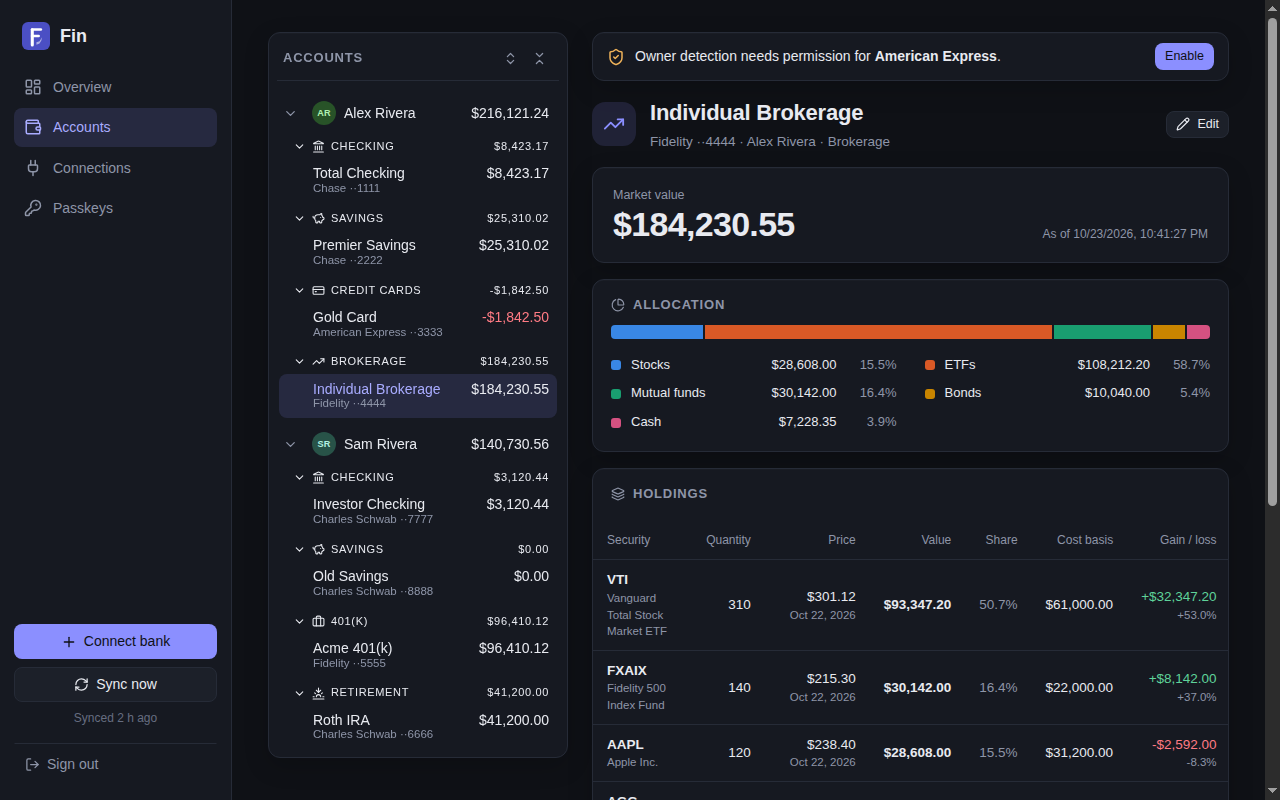
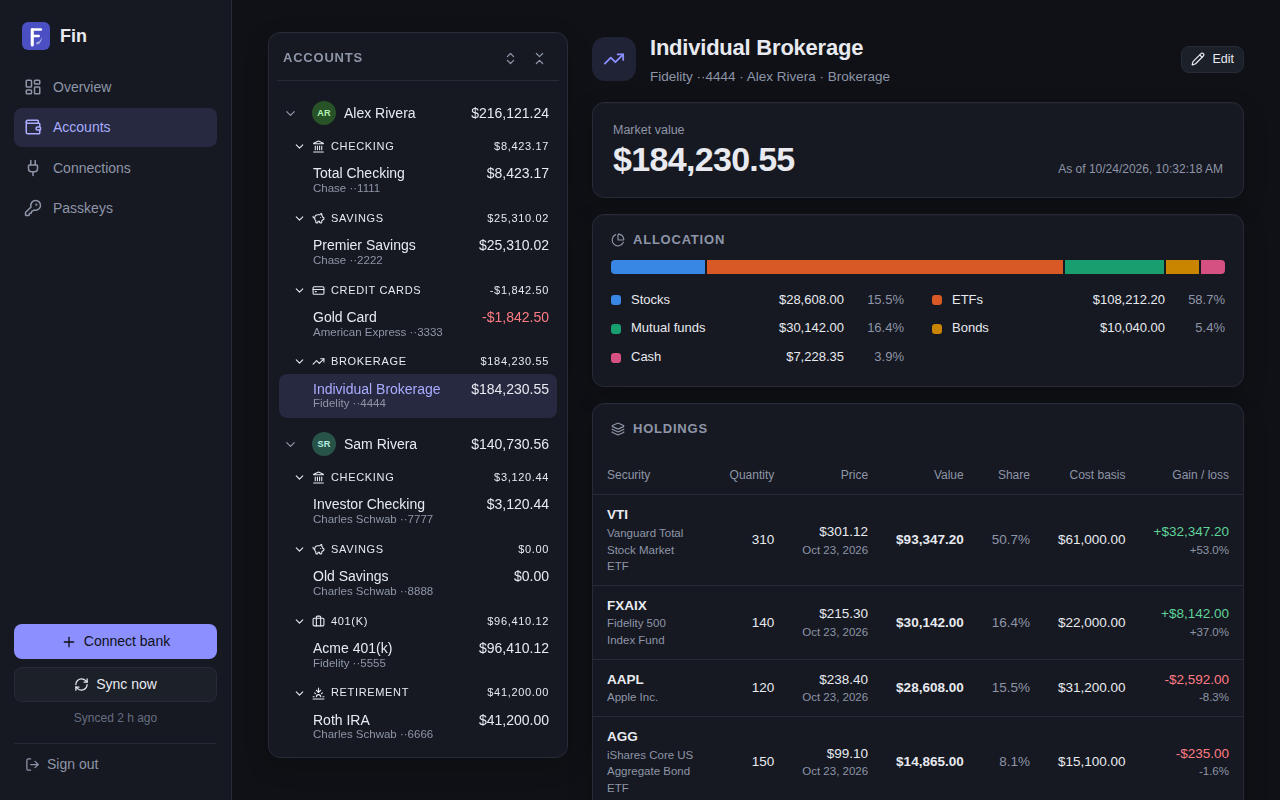
Align Overview cards across groups; bring README up to date
- Overview: each owner's groups share grid rows (subgrid), so headings and
  side-by-side cards line up even when names wrap; headings stay on one
  line (the redundant "balance only" suffix is gone, cards still say it)
- README: owners are set by hand, DB_KEY in the 1Password steps, layout
  list matches src/; screenshots retaken without the Identity UI
- db.ts comments: identity_status / owner_detected are unused leftovers

diff --git a/web/src/pages/Home.svelte b/web/src/pages/Home.svelte
@@ -7,7 +7,7 @@
   import PageHeader from "../components/PageHeader.svelte";
   import Switch from "../components/Switch.svelte";
   import { data } from "../lib/data.svelte";
-  import { balanceOnly, byGroup, dateTime, ownerList, plural, sum, usd, usd0, where } from "../lib/format";
+  import { byGroup, dateTime, ownerList, plural, sum, usd, usd0, where } from "../lib/format";
   import { groupIcon, KIND_TONE } from "../lib/icons";
   import { startLink } from "../lib/link.svelte";
   import { store } from "../lib/store";
@@ -78,22 +78,21 @@
   {#each sections as { o, mine } (o)}
     <section class="owner">
       <div class="ohead"><Avatar name={o} size={34} /><h2>{o}</h2><span class="muted small">{plural(mine.length, "account")}</span><span class="total num">{usd(sum(mine))}</span></div>
-      <!-- Groups flow side by side, each a column of its accounts, so single-account groups don't leave empty rows. -->
+      <!-- Groups flow side by side, each a column of its accounts, so single-account groups don't leave empty rows.
+           Each column is a subgrid spanning its heading + cards, so headings and the nth cards line up across columns. -->
       <div class="groups">
         {#each byGroup(mine) as [group, list] (group)}
           {@const Icon = groupIcon(group)}
-          <div>
-            <div class="grp"><Icon size={14} aria-hidden="true" /><span>{group}{balanceOnly(list) ? " · balance only" : ""}</span><span class="num">{usd(sum(list))}</span></div>
-            <div class="cards">
-              {#each list as a (a.account_id)}
-                <a class="acard card" href={"/accounts#" + encodeURIComponent(a.account_id)} aria-label="{a.name}, {usd(a.balance)}">
-                  <div class="atop"><IconChip icon={Icon} tone={KIND_TONE[a.kind]} size={30} />
-                    <div class="aname"><div class="n">{a.name}</div><div class="w">{where(a)}</div></div></div>
-                  <div class="aval num" class:neg={(a.balance ?? 0) < 0}>{usd(a.balance)}</div>
-                  <div class="afoot">{note(a)}</div>
-                </a>
-              {/each}
-            </div>
+          <div class="group" style:--rows={list.length + 1}>
+            <div class="grp" title={group}><Icon size={14} aria-hidden="true" /><span>{group}</span><span class="num">{usd(sum(list))}</span></div>
+            {#each list as a (a.account_id)}
+              <a class="acard card" href={"/accounts#" + encodeURIComponent(a.account_id)} aria-label="{a.name}, {usd(a.balance)}">
+                <div class="atop"><IconChip icon={Icon} tone={KIND_TONE[a.kind]} size={30} />
+                  <div class="aname"><div class="n">{a.name}</div><div class="w">{where(a)}</div></div></div>
+                <div class="aval num" class:neg={(a.balance ?? 0) < 0}>{usd(a.balance)}</div>
+                <div class="afoot">{note(a)}</div>
+              </a>
+            {/each}
           </div>
         {/each}
       </div>
@@ -122,10 +121,10 @@
   .owner { margin-top:26px }
   .ohead { display:flex; align-items:center; gap:12px; padding-bottom:10px; border-bottom:1px solid var(--line) }
   .ohead h2 { font-size:17px } .ohead .muted { flex:1 } .total { font-size:17px; font-weight:600 }
-  .grp { display:flex; align-items:center; gap:7px; margin:18px 0 10px; font-size:12px; text-transform:uppercase; letter-spacing:.06em; color:var(--muted) }
-  .grp span:first-of-type { flex:1 }
-  .groups { display:grid; grid-template-columns:repeat(auto-fill, minmax(260px, 1fr)); gap:4px 14px }
-  .cards { display:grid; gap:12px }
+  .grp { display:flex; align-items:center; gap:7px; margin:16px 0 -2px; font-size:12px; text-transform:uppercase; letter-spacing:.06em; color:var(--muted) }
+  .grp span:first-of-type { flex:1; min-width:0; white-space:nowrap; overflow:hidden; text-overflow:ellipsis }
+  .groups { display:grid; grid-template-columns:repeat(auto-fill, minmax(260px, 1fr)); gap:12px 14px }
+  .group { display:grid; grid-template-rows:subgrid; grid-row:span var(--rows) }
   .acard { display:flex; flex-direction:column; padding:14px 16px; color:inherit; text-decoration:none; min-height:132px; transition:border-color .12s, transform .12s }
   .acard:hover { border-color:var(--accent); color:inherit; transform:translateY(-1px) }
   .atop { display:flex; gap:10px; align-items:flex-start } .aname { min-width:0 }

diff --git a/src/db.ts b/src/db.ts
@@ -76,7 +76,7 @@ function addColumn(table: string, column: string, def: string) {
 addColumn("accounts", "owner_detected", "TEXT");
 addColumn("accounts", "owner_override", "TEXT");
 addColumn("accounts", "group_override", "TEXT");
-// null = not tried yet | ok | needs_consent (re-link in update mode) | unsupported
+// Unused since Plaid Identity was removed (2026-10-24); kept because migrations are additive only.
 addColumn("items", "identity_status", "TEXT");
 addColumn("items", "nickname", "TEXT");
 addColumn("items", "created_at", "TEXT");
@@ -128,7 +128,8 @@ CREATE TABLE IF NOT EXISTS holding_history (
 );
 `);
 
-// One definition of "who owns this account": manual override, else Plaid-detected, else Unassigned.
+// One definition of "who owns this account": manual override, else the owner Plaid Identity detected before it was
+// removed (owner_detected, no longer written), else Unassigned.
 // And of "has a transaction register": every non-investment account has one; an investment account follows its
 // manual override, else `register_auto` (only cash management accounts, which Schwab and others type as investment).
 // Recreated on every start so a changed definition reaches existing databases.

diff --git a/README.md b/README.md
@@ -29,7 +29,8 @@ Every signed-in page shares one frame: a sidebar with the pages, **Connect bank*
 | `/passkeys` | The passkeys that can sign in: add one on this device, make a one-time invite link for another device, remove one, sign out |
 | `/login` | Sign in with a passkey (or create the first one) |
 
-Owners are assigned per account (Connections page or the account's Edit dialog); accounts are grouped by type automatically.
+Each account's owner is set by hand (the Owner menu on Connections, or **Edit** on the account); until then it is listed under
+"Unassigned". Accounts are grouped by type automatically (overridable under **Edit**).
 Credit cards and loans are shown as negative (owed) so totals add up.
 
 ## Configuration
@@ -51,14 +52,15 @@ In the container, any variable whose value is a 1Password secret reference (`op:
 startup by `fin-entrypoint.sh`, so `.env` on the server holds references instead of secrets. It reads them with a
 service account that can only read one dedicated vault for the server (one item per app, fields named after the
 variables they replace):
-1. Create a vault for the server (e.g. `my-server`) holding an item `fin` with fields `PLAID_CLIENT_ID` and
-   `PLAID_SECRET` (in the 1Password app, so the secret stays out of shell history).
+1. Create a vault for the server (e.g. `my-server`) holding an item `fin` with fields `PLAID_CLIENT_ID`,
+   `PLAID_SECRET` and, if you encrypt the database, `DB_KEY` (in the 1Password app, so secrets stay out of shell history).
 2. Create the service account and send its token straight to the server:
    ```
    op service-account create my-server --vault my-server:read_items --raw \
      | ssh <host> 'install -D -m 400 -o 1000 -g 1000 /dev/stdin /etc/op/token'
    ```
-3. In the server's `.env`, set `PLAID_CLIENT_ID=op://my-server/fin/PLAID_CLIENT_ID` and `PLAID_SECRET=op://my-server/fin/PLAID_SECRET`.
+3. In the server's `.env`, set `PLAID_CLIENT_ID=op://my-server/fin/PLAID_CLIENT_ID`, `PLAID_SECRET=op://my-server/fin/PLAID_SECRET`
+   and `DB_KEY=op://my-server/fin/DB_KEY`, as in `.env.example`.
 The token file is owned by uid 1000 because the container runs as `node`. The token is printed only once; if it is
 lost, create a new service account (and delete the old one in 1Password). Startup fails (after a 60 s pause, to stay
 within 1Password's rate limits) if a reference can't be read. Without 1Password, put plain values in `.env` and set
@@ -93,8 +95,11 @@ The daily sync runs inside the server process, so run a single instance. **Sync 
 src/app.ts            Express app: serves the web app for each page address, static files, routers
 src/auth.ts           Sessions and the login guard in front of every page and API
 src/routes/           auth (passkeys), link (Plaid Link + sync), accounts, register (transactions/payees), holdings, connections
-src/sync.ts           Per-connection sync: balances, owners, transactions, holdings, daily snapshots
-src/classify.ts       Account grouping, owner-name normalization, signed balances
+src/server.ts         Entry point: the daily sync cron, then listen
+src/db.ts             SQLite schema, additive migrations, the account_view (effective owner, register)
+src/dto.ts            Account JSON for the web app (signed balance, kind, group)
+src/sync.ts           Per-connection sync: balances, transactions, investment activity, holdings, daily snapshots
+src/classify.ts       Account grouping and order, asset classes, signed balances
 src/duplicates.ts     Same account seen through several connections
 src/plaidStatus.ts    Cached /item/get status for the Connections page
 web/                  The browser app: Svelte 5 + Vite, its own pnpm workspace package (built into dist/web)
